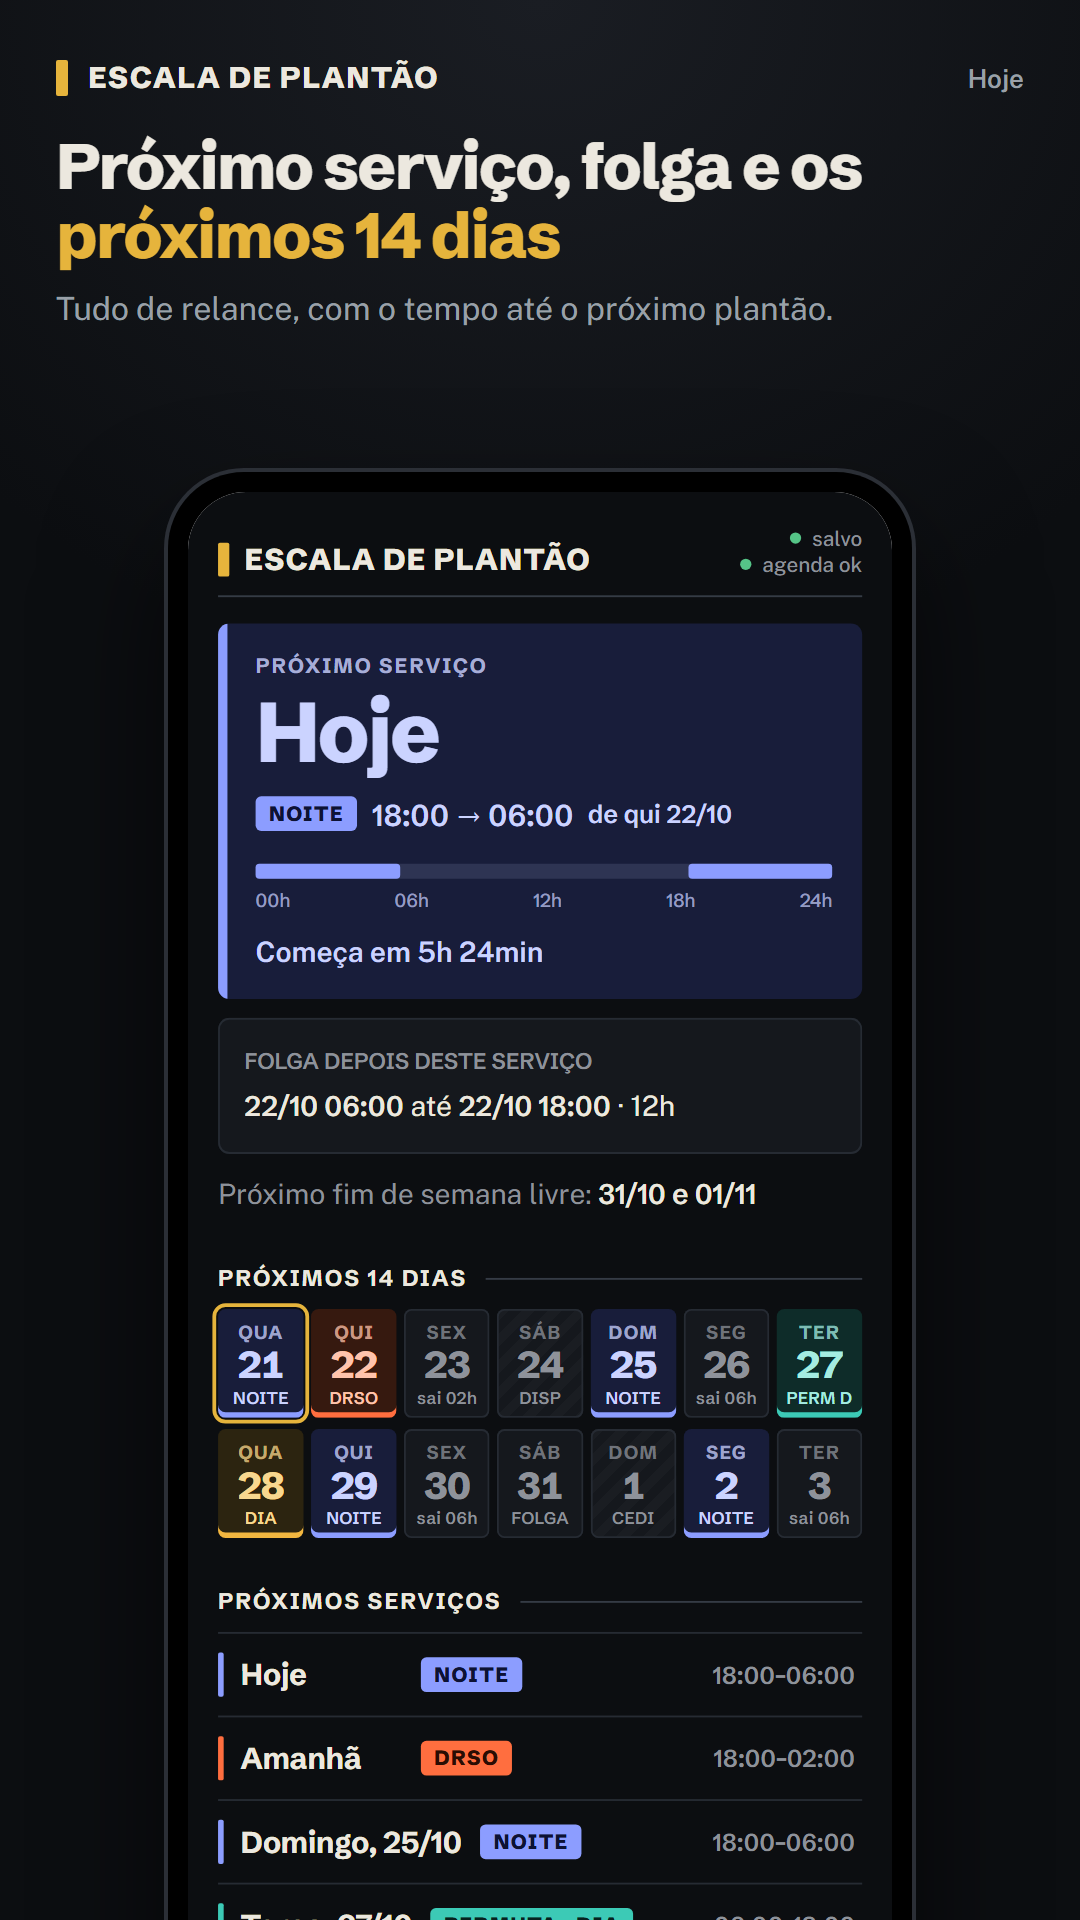
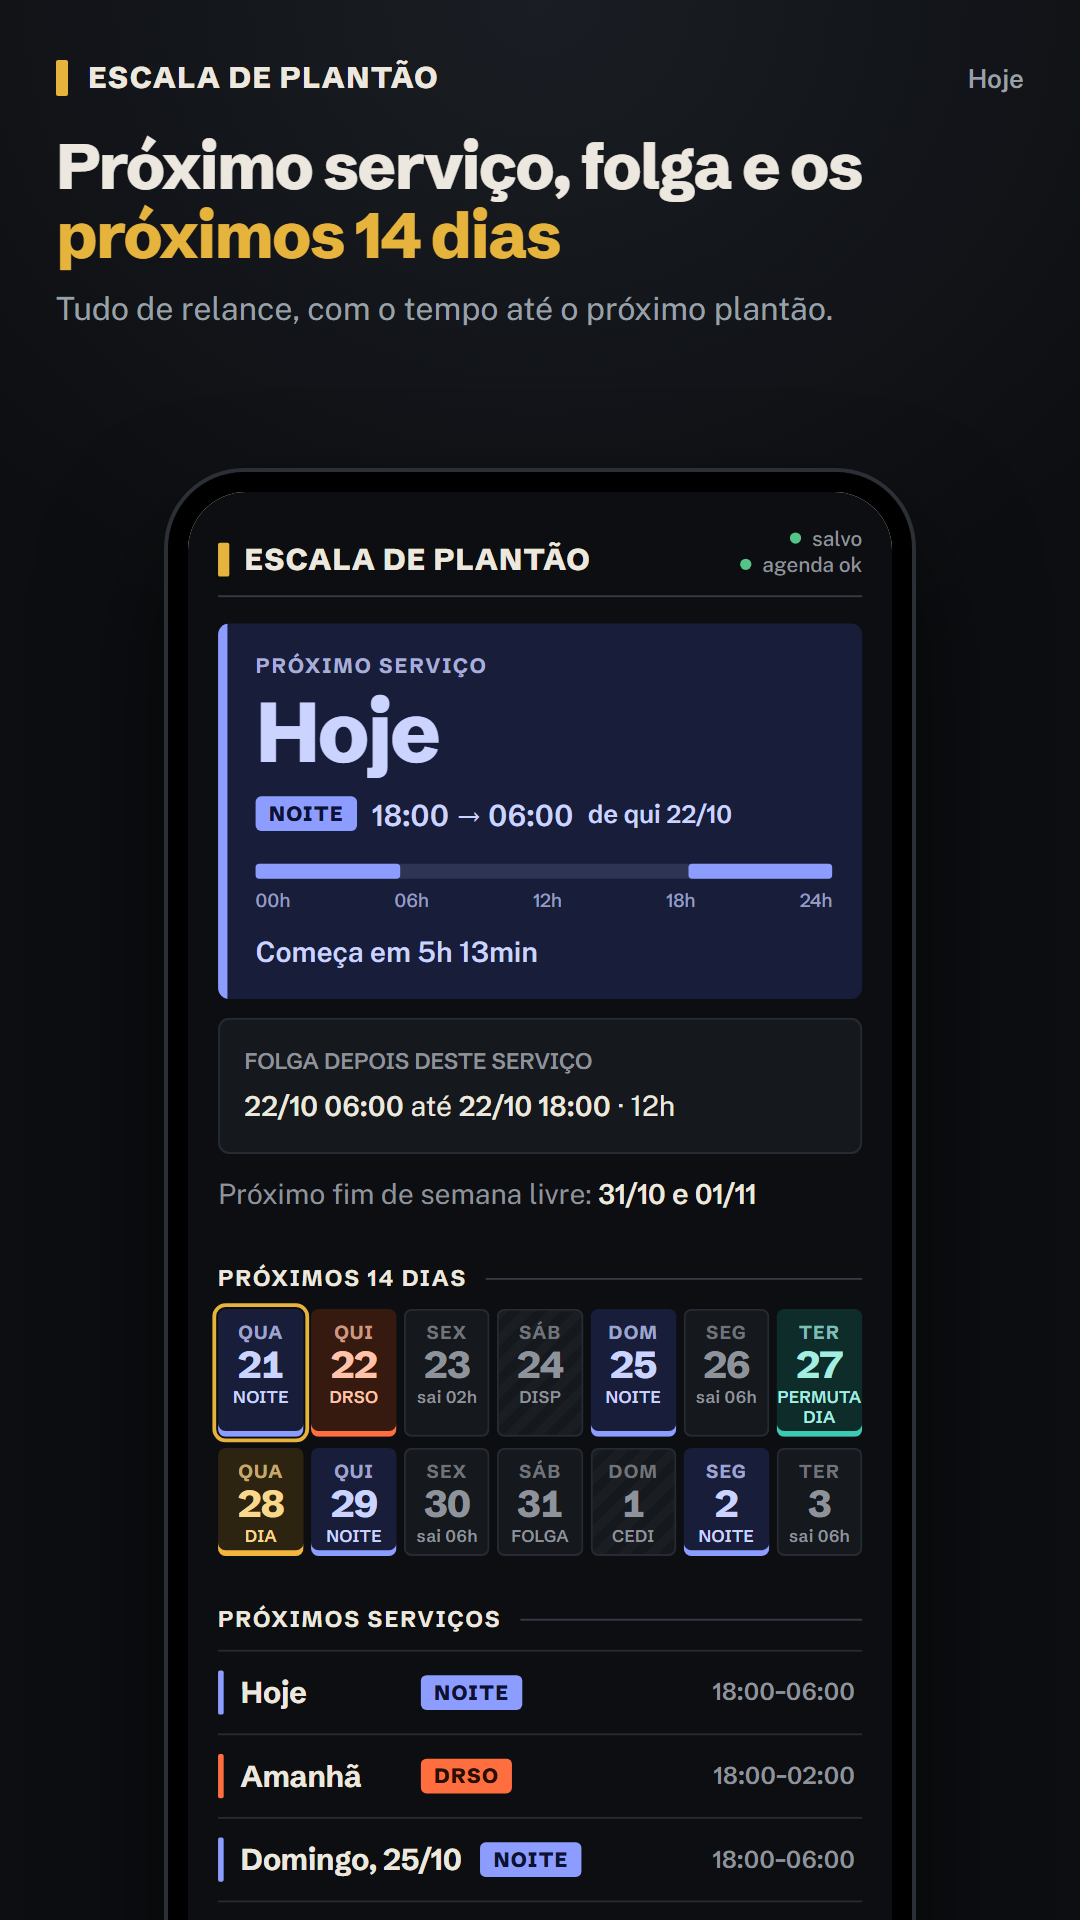
Etiqueta PERMUTA/DIA por extenso na faixa de 14 dias; teste de sintaxe do Index.html

Changed region(s): [[0.1833, 0.7188, 0.7944, 1.0], [0.6417, 0.8438, 0.7944, 1.0], [0.4278, 0.4688, 0.4889, 0.5]]

diff --git a/Index.html b/Index.html
@@ -112,7 +112,7 @@ h2.sec::after{content:"";flex:1;height:1px;background:var(--rule)}
 .k-folga.dc{box-shadow:inset 0 0 0 1px var(--line)}
 .dc .w{font:700 10px var(--f-disp);letter-spacing:.06em;text-transform:uppercase;opacity:.75}
 .dc .n{font:800 20px/1.15 var(--f-disp);letter-spacing:-.02em;font-variant-numeric:tabular-nums}
-.dc .t{font:600 9px var(--f-mono);white-space:nowrap;letter-spacing:.02em}
+.dc .t{font:600 9px/1.2 var(--f-mono);white-space:pre;letter-spacing:.02em;text-align:center}
 .k-canc.dc,.k-canc.mc{background:repeating-linear-gradient(135deg,var(--off-bg) 0 5px,var(--surface) 5px 10px);box-shadow:inset 0 0 0 1px var(--line)}
 .hoje{outline:2px solid var(--ouro);outline-offset:1px}
 
@@ -567,7 +567,7 @@ function celulaTipo(s){
   const cn=ts.filter(t=>t.cancelado);
   if(at.length){
     const t=at.find(x=>x.origem==='escala')||at[0];
-    const txt=t.origem==='escala'?(t.tipo==='dia'?'DIA':'NOITE'):((t.origem==='extra'?'DRSO':'PERM')+(t.tipo==='dia'?' D':t.tipo==='noite'?' N':''));
+    const txt=t.origem==='escala'?(t.tipo==='dia'?'DIA':'NOITE'):((t.origem==='extra'?'DRSO':'PERMUTA')+(t.tipo==='dia'?'\nDIA':t.tipo==='noite'?'\nNOITE':''));
     return{k:'k-'+klass(t),txt};
   }
   if(cn.length){

diff --git a/testes/testes.js b/testes/testes.js
@@ -10,6 +10,9 @@ const bloco = t => {
   return t.slice(i, f);
 };
 
+// 0. o JS do Index.html compila (erro de sintaxe deixa o app preso em "carregando")
+for (const m of cli.matchAll(/<script>([\s\S]*?)<\/script>/g)) new Function(m[1]);
+
 // 1. o motor é igual no servidor e no cliente
 assert.strictEqual(bloco(srv), bloco(cli), 'bloco UTIL/ENGINE diferente entre Código.js e Index.html');
 
